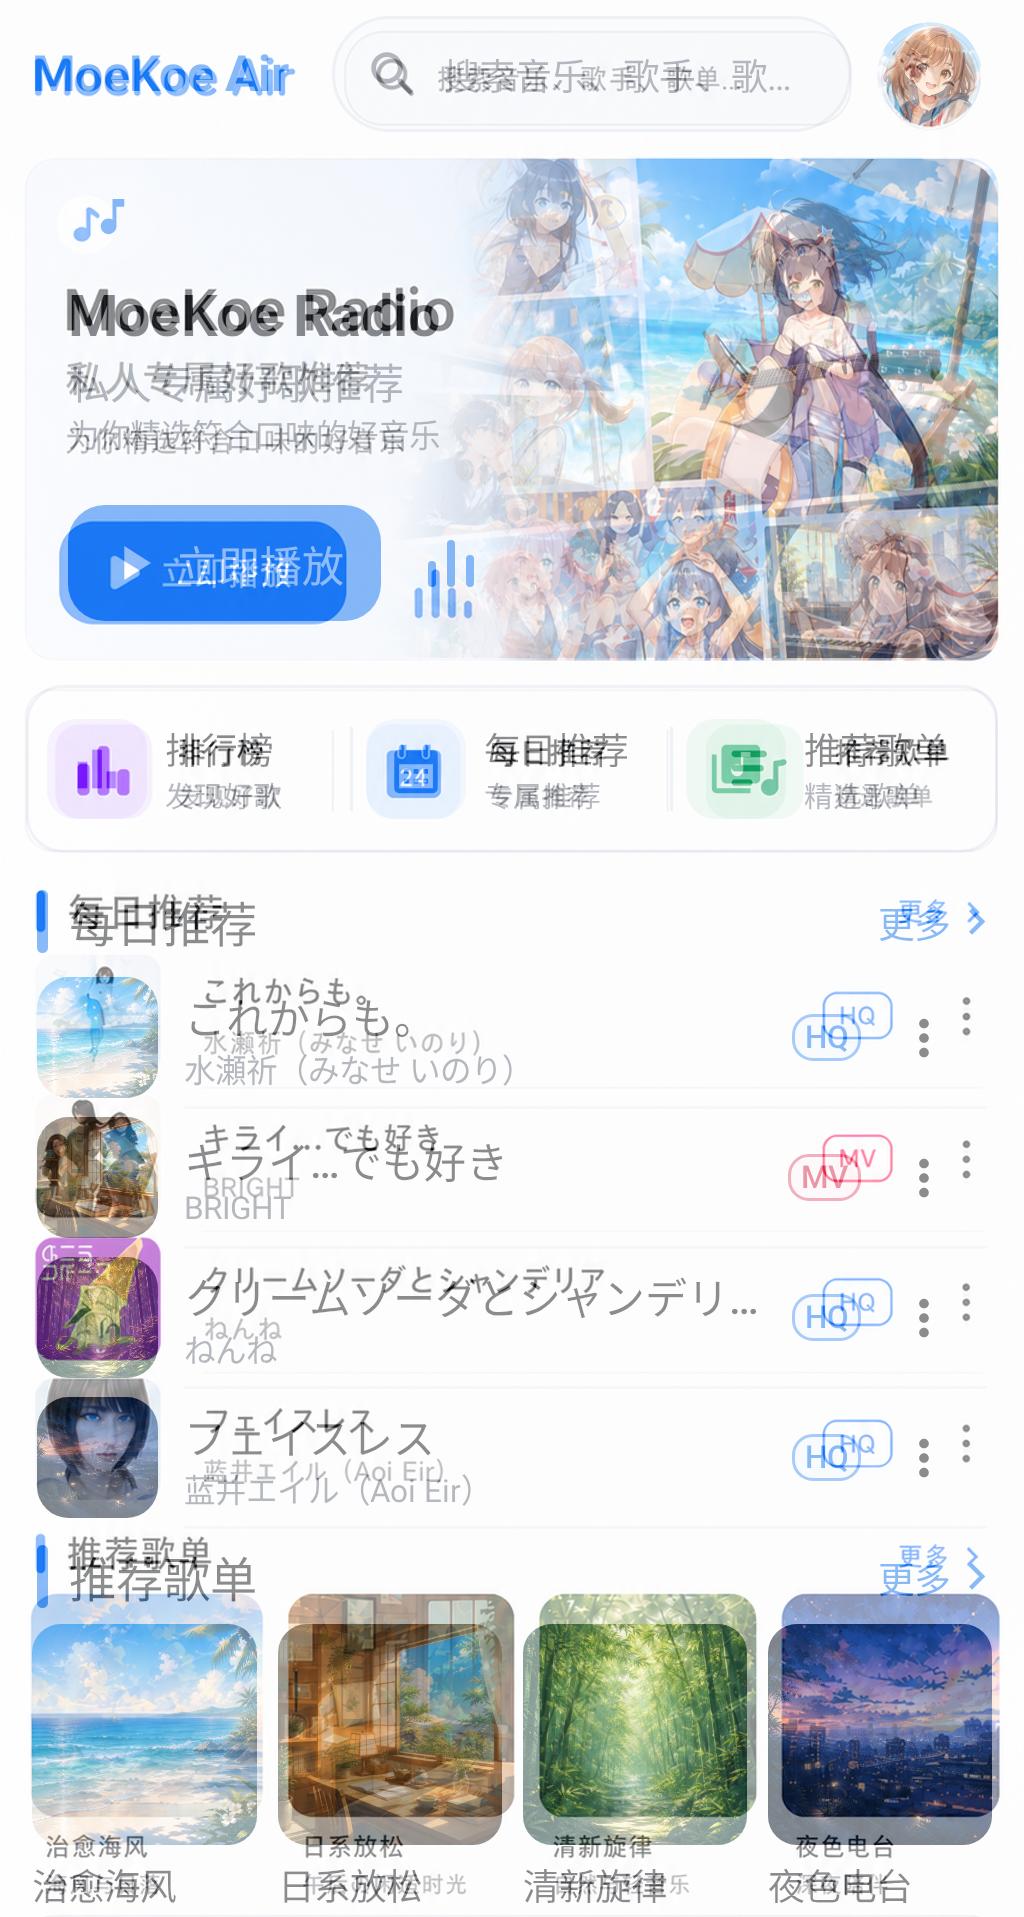
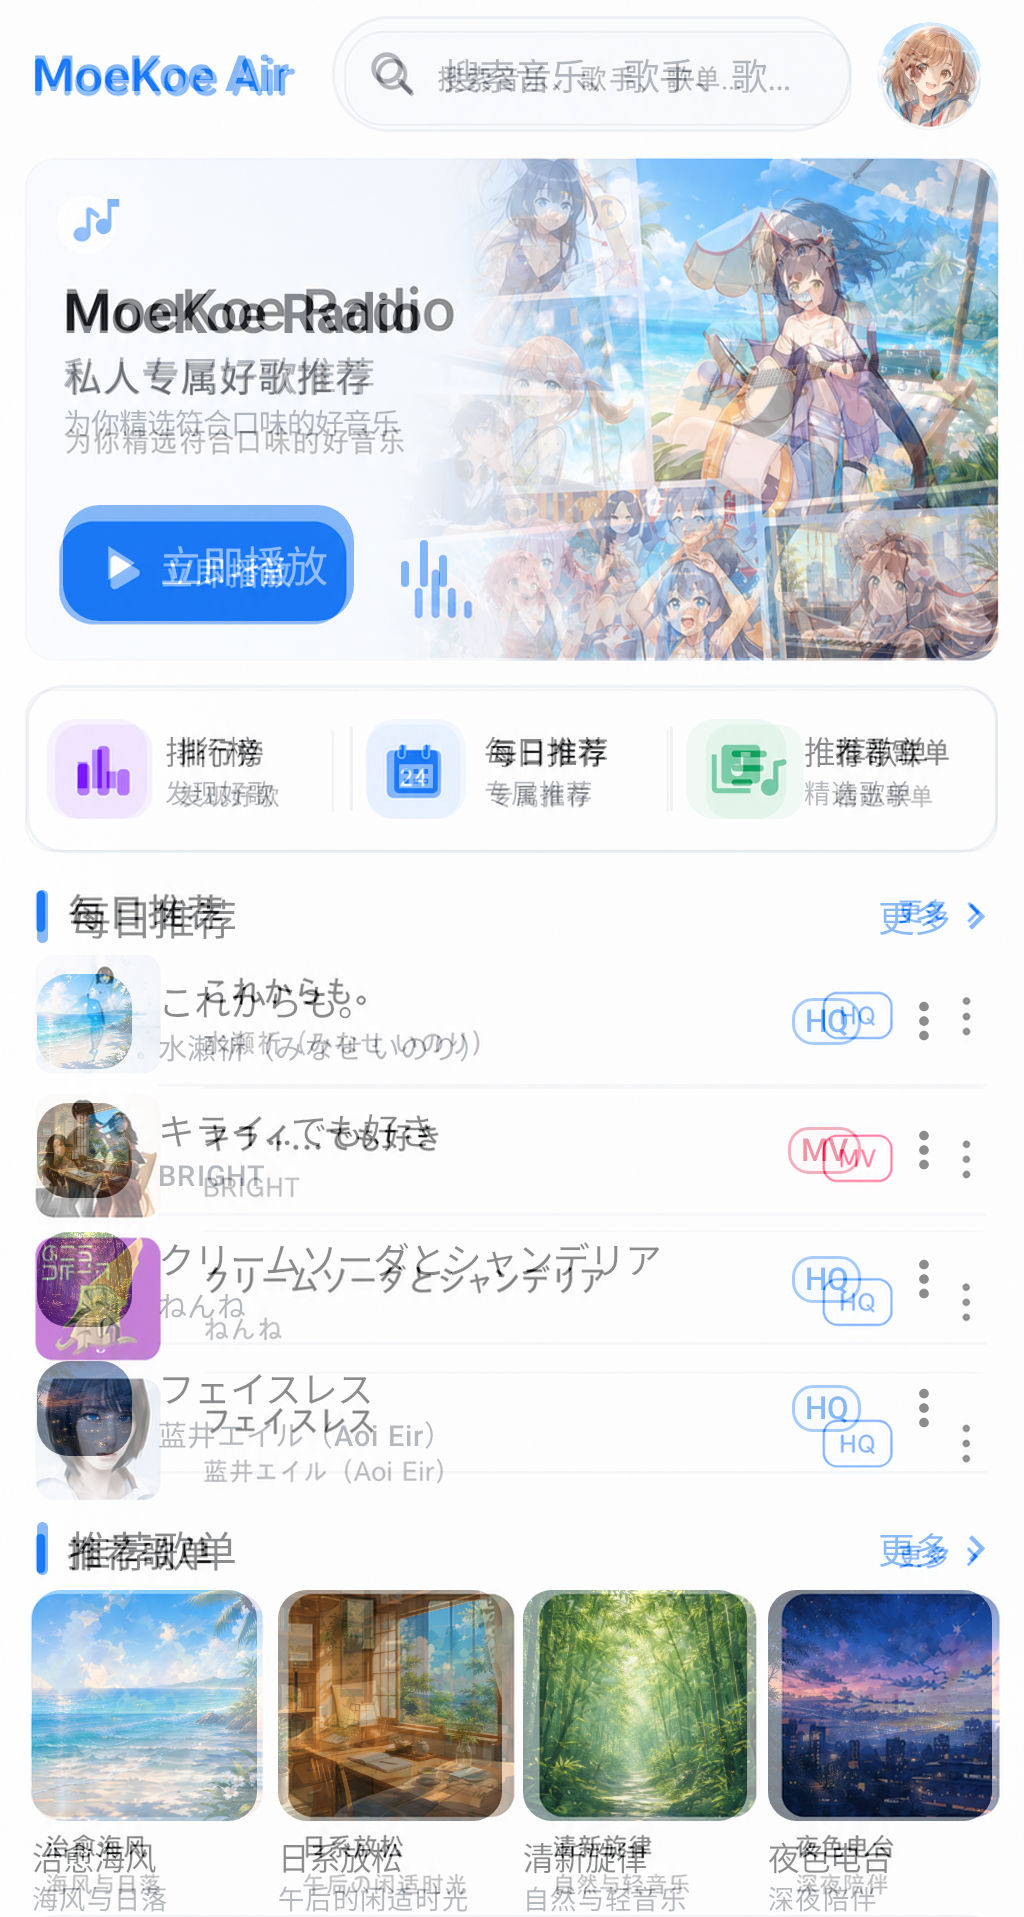
fix(home): match confirmed content density

diff --git a/feature/home/src/main/kotlin/cn/james/music/feature/home/HomeScreen.kt b/feature/home/src/main/kotlin/cn/james/music/feature/home/HomeScreen.kt
@@ -131,6 +131,7 @@ private fun HomeContent(
             }
         }
         if (content.playlists.isNotEmpty()) {
+            item { Spacer(Modifier.height(12.dp)) }
             item { HomeSectionHeader(stringResource(R.string.home_playlist_title)) }
             item { HomePlaylistGrid(content.playlists.take(4)) }
         }
@@ -264,7 +265,7 @@ private fun HomeRadioHero() {
                 ),
         )
         Column(
-            modifier = Modifier.fillMaxHeight().fillMaxWidth(copyWidth).padding(start = 16.dp, top = 5.dp, bottom = 14.dp),
+            modifier = Modifier.fillMaxHeight().fillMaxWidth(copyWidth).padding(start = 14.dp, top = 5.dp, bottom = 14.dp),
         ) {
             Surface(shape = CircleShape, color = MaterialTheme.colorScheme.surface.copy(alpha = 0.88f)) {
                 Icon(
@@ -277,7 +278,7 @@ private fun HomeRadioHero() {
             Text(
                 text = stringResource(R.string.home_radio_title),
                 modifier = Modifier.padding(top = 8.dp),
-                style = MaterialTheme.typography.titleLarge,
+                style = MaterialTheme.typography.titleLarge.copy(fontSize = 21.sp, lineHeight = 26.sp),
                 fontWeight = FontWeight.Bold,
                 color = textColor,
                 maxLines = if (largeText) 2 else 1,
@@ -285,7 +286,7 @@ private fun HomeRadioHero() {
             )
             Text(
                 text = stringResource(R.string.home_radio_subtitle),
-                style = MaterialTheme.typography.titleSmall,
+                style = MaterialTheme.typography.titleSmall.copy(fontSize = 15.sp, lineHeight = 20.sp),
                 fontWeight = FontWeight.Medium,
                 color = supportingColor,
                 maxLines = if (largeText) 2 else 1,
@@ -293,7 +294,7 @@ private fun HomeRadioHero() {
             )
             Text(
                 text = stringResource(R.string.home_radio_supporting),
-                style = MaterialTheme.typography.bodySmall,
+                style = MaterialTheme.typography.bodySmall.copy(fontSize = 11.sp, lineHeight = 16.sp),
                 color = supportingColor,
                 maxLines = if (largeText) 2 else 1,
                 overflow = TextOverflow.Ellipsis,
@@ -306,7 +307,7 @@ private fun HomeRadioHero() {
                     contentColor = MaterialTheme.colorScheme.onPrimary,
                 ) {
                     Row(
-                        modifier = Modifier.heightIn(min = 44.dp).padding(horizontal = 14.dp, vertical = 8.dp),
+                        modifier = Modifier.heightIn(min = 44.dp).padding(horizontal = 10.dp, vertical = 8.dp),
                         verticalAlignment = Alignment.CenterVertically,
                         horizontalArrangement = Arrangement.spacedBy(5.dp),
                     ) {
@@ -391,14 +392,14 @@ private fun QuickEntry(
             QuickEntryIcon(icon, iconColor, containerColor)
             Text(
                 title,
-                style = MaterialTheme.typography.labelLarge,
+                style = MaterialTheme.typography.labelMedium,
                 fontWeight = FontWeight.Medium,
                 textAlign = TextAlign.Center,
                 maxLines = 2,
             )
             Text(
                 supporting,
-                style = MaterialTheme.typography.labelSmall,
+                style = MaterialTheme.typography.labelSmall.copy(fontSize = 10.sp, lineHeight = 14.sp),
                 color = MaterialTheme.colorScheme.onSurfaceVariant,
                 textAlign = TextAlign.Center,
                 maxLines = 2,
@@ -408,10 +409,10 @@ private fun QuickEntry(
         Row(modifier = modifier, verticalAlignment = Alignment.CenterVertically) {
             QuickEntryIcon(icon, iconColor, containerColor)
             Column(Modifier.padding(start = 7.dp)) {
-                Text(title, style = MaterialTheme.typography.labelLarge, fontWeight = FontWeight.Medium, maxLines = 1)
+                Text(title, style = MaterialTheme.typography.labelMedium, fontWeight = FontWeight.Medium, maxLines = 1)
                 Text(
                     supporting,
-                    style = MaterialTheme.typography.labelSmall,
+                    style = MaterialTheme.typography.labelSmall.copy(fontSize = 10.sp, lineHeight = 14.sp),
                     color = MaterialTheme.colorScheme.onSurfaceVariant,
                     maxLines = 1,
                 )
@@ -440,18 +441,18 @@ private fun QuickDivider() {
 @Composable
 private fun HomeSectionHeader(title: String) {
     Row(
-        modifier = Modifier.fillMaxWidth().heightIn(min = 36.dp).padding(start = 14.dp, end = 8.dp, top = 4.dp, bottom = 4.dp),
+        modifier = Modifier.fillMaxWidth().heightIn(min = 32.dp).padding(start = 14.dp, end = 8.dp, top = 2.dp, bottom = 2.dp),
         verticalAlignment = Alignment.CenterVertically,
     ) {
         Box(
             Modifier
-                .size(width = 4.dp, height = 24.dp)
+                .size(width = 4.dp, height = 20.dp)
                 .background(MaterialTheme.colorScheme.primary, RoundedCornerShape(2.dp)),
         )
         Text(
             text = title,
             modifier = Modifier.weight(1f).padding(start = 8.dp),
-            style = MaterialTheme.typography.titleMedium,
+            style = MaterialTheme.typography.titleSmall.copy(fontSize = 16.sp, lineHeight = 20.sp),
             fontWeight = FontWeight.SemiBold,
             maxLines = 1,
         )
@@ -475,11 +476,11 @@ private fun HomeRecommendationRow(
             modifier =
                 Modifier
                     .fillMaxWidth()
-                    .heightIn(min = 52.dp)
+                    .heightIn(min = 48.dp)
                     .clickable { onPlay(song) },
             verticalAlignment = Alignment.CenterVertically,
         ) {
-            MoeArtwork(size = 46.dp) {
+            MoeArtwork(size = 36.dp) {
                 HomeArtwork(
                     title = song.title,
                     artworkUrl = song.artworkUrl,
@@ -492,14 +493,14 @@ private fun HomeRecommendationRow(
             ) {
                 Text(
                     text = song.title,
-                    style = MaterialTheme.typography.titleSmall,
+                    style = MaterialTheme.typography.labelLarge,
                     fontWeight = FontWeight.Medium,
                     maxLines = 1,
                     overflow = TextOverflow.Ellipsis,
                 )
                 Text(
                     text = song.artistName.ifBlank { stringResource(R.string.home_unknown_artist) },
-                    style = MaterialTheme.typography.bodySmall,
+                    style = MaterialTheme.typography.labelSmall,
                     color = MaterialTheme.colorScheme.onSurfaceVariant,
                     maxLines = 1,
                     overflow = TextOverflow.Ellipsis,
@@ -519,7 +520,7 @@ private fun HomeRecommendationRow(
             }
         }
         HorizontalDivider(
-            modifier = Modifier.padding(start = 56.dp),
+            modifier = Modifier.padding(start = 46.dp),
             color = MaterialTheme.colorScheme.outlineVariant.copy(alpha = 0.55f),
         )
     }
@@ -548,12 +549,12 @@ private fun HomePlaylistCard(
             title = playlist.title,
             artworkUrl = playlist.artworkUrl,
             previewArtworkRes = playlist.previewArtworkRes,
-            modifier = Modifier.fillMaxWidth().height(84.dp).clip(RoundedCornerShape(11.dp)),
+            modifier = Modifier.fillMaxWidth().height(88.dp).clip(RoundedCornerShape(11.dp)),
         )
         Text(
             playlist.title,
             modifier = Modifier.padding(top = 5.dp),
-            style = MaterialTheme.typography.labelLarge,
+            style = MaterialTheme.typography.labelMedium,
             fontWeight = FontWeight.Medium,
             maxLines = 1,
             overflow = TextOverflow.Ellipsis,
@@ -563,7 +564,7 @@ private fun HomePlaylistCard(
         subtitle?.let {
             Text(
                 it,
-                style = MaterialTheme.typography.labelSmall,
+                style = MaterialTheme.typography.labelSmall.copy(fontSize = 10.sp, lineHeight = 14.sp),
                 color = MaterialTheme.colorScheme.onSurfaceVariant,
                 maxLines = 1,
                 overflow = TextOverflow.Ellipsis,

diff --git a/docs/plans/04-content-and-player-ui.md b/docs/plans/04-content-and-player-ui.md
@@ -44,7 +44,7 @@
 - 首页缓存已将 Room 升至 v5，新增按 `home:v1:anonymous` / `home:v1:user:<userid>` 分区的可观察完整快照 DAO；`4→5`、完整 `1→5`、DAO 覆盖与既有数据库回归已在 ELE-AL00 / API 29 真机 13/13 通过。
 - 首页 Repository 已完成 Room stale-while-revalidate、15 分钟 TTL、匿名/用户分区自动切换与刷新、完整快照提交、部分失败保护、single-flight、强制刷新和会话双代际隔离；15 项 JVM 测试覆盖旧缓存首发、自动刷新问题、取消、缓存损坏和并发竞态。
 - Home ViewModel 已完成领域模型到 UI Model 的隔离、首次/缓存/刷新/部分/空/错误状态、弱提示消耗、显式刷新代际取消和身份分区切换；9 项 JVM 测试覆盖首次会话失败顺序及账号切换与手动刷新并发。
-- 首页 Compose 已按 [`HOME_LAYOUT_SPEC.md`](../design/HOME_LAYOUT_SPEC.md) 和 `01-home-material3-v2.png` 完整恢复横向顶部工具区、Radio Hero、三快捷入口、每日推荐四行与四列推荐歌单；真实推荐/歌单、搜索、下拉刷新、播放事件和缓存弱提示继续复用既有链路。Light、Dark、AMOLED、加载、空、错误、缓存刷新弱提示、`1.5×`、`2.0×` 共 9 组截图基线及归一化对照证据已建立；指定 ELE-AL00 / API 29 的 App instrumentation 回归 24/24 通过。设计示例徽标和副标题只进入截图 fixture，不扩充协议或伪造运行时能力。
+- 首页 Compose 已按 [`HOME_LAYOUT_SPEC.md`](../design/HOME_LAYOUT_SPEC.md) 和 `01-home-material3-v2.png` 完整恢复横向顶部工具区、Radio Hero、三快捷入口、每日推荐四行与四列推荐歌单；2026-08-08 的二次同画布复核进一步修正了旧证据未拦住的歌曲行、封面、字级与推荐歌单纵向漂移。真实推荐/歌单、搜索、下拉刷新、播放事件和缓存弱提示继续复用既有链路。Light、Dark、AMOLED、加载、空、错误、缓存刷新弱提示、`1.5×`、`2.0×` 共 9 组截图基线及归一化对照证据已建立；设计示例徽标和副标题只进入截图 fixture，不扩充协议或伪造运行时能力。
 - 发现页已按 [`DISCOVER_LAYOUT_SPEC.md`](../design/DISCOVER_LAYOUT_SPEC.md) 和 `02-discover-v2.png` 完整恢复五段 Tab、本周新声 Hero、三列热门榜单、分类胶囊与三列封面；当前内容是 UI 层设计预览，不声明榜单、详情或播放业务已接入。Light、Dark、AMOLED、加载、空、错误、`1.5×`、`2.0×` 共 8 组截图基线和归一化设计对照证据已建立，大字体排行榜按纵向行重排；指定 ELE-AL00 / API 29 的 App instrumentation 回归 24/24 通过。
 - 播放队列已按 [`PLAYER_QUEUE_LAYOUT_SPEC.md`](../design/PLAYER_QUEUE_LAYOUT_SPEC.md) 和 `08-player-queue.png` 完成纯 UI 复刻：系统 `ModalBottomSheet` 内恢复标题、真实数量、播放模式、清空、来源、当前项、六行密度和关闭提示；标准、空队列、`1.5×` 共 3 组截图及归一化对照证据通过。指定 ELE-AL00 / API 29 已从 MiniPlayer 与全屏播放器分别打开真实调试队列并验证系统返回；拖拽仅表达确认稿视觉，不伪装重排业务已完成。
 - 歌单详情已经完成 [`19-playlist-detail-ui`](../reference-audits/19-playlist-detail-ui.md) 门禁，并按 [`PLAYLIST_DETAIL_LAYOUT_SPEC.md`](../design/PLAYLIST_DETAIL_LAYOUT_SPEC.md) 与 `05-playlist-detail.png` 落入独立 `:feature:playlist`：从发现页使用类型安全子页面导航进入，恢复标准 Toolbar、资料 Hero、五项操作、紧凑歌曲列表与当前项 Surface；子页面隐藏一级底栏并保留应用级 MiniPlayer。Light、Dark、AMOLED、加载、空、错误、`1.5×`、`2.0×` 共 8 组截图基线及归一化设计对照证据已建立，指定 ELE-AL00 / API 29 已验证入口、返回与窄屏操作区无裁切。真实协议、收藏、下载、排序和播放行为继续拆分为后续纵向切片。

diff --git a/docs/design/evidence/home-content-2026-08-08.md b/docs/design/evidence/home-content-2026-08-08.md
@@ -15,10 +15,18 @@
 
 - 顶部品牌、搜索框和圆形头像保持同一行；搜索仍接入既有独立目的地。
 - Radio Hero、三入口连续 Surface、每日推荐四行和推荐歌单四列均已恢复，不再使用空白占位或简化 Banner 代替。
-- Hero、快捷入口、两个分组标题、歌曲行和歌单区的首屏顺序及纵向密度与确认稿一致；页面只有一个纵向滚动所有者，MiniPlayer 与底栏不进入页面列表。
+- 本轮重新复核纠正了旧证据未拦住的密度偏差：歌曲封面由过大的 `46dp` 收紧为 `36dp`，歌曲行、标题/艺人字级和分隔线起点同步校准，并恢复每日推荐与推荐歌单之间的分组留白；两个 Section Header 现在与确认稿落在同一纵向锚点。
+- Hero 文案与主按钮、快捷入口字级、四列歌单封面和两行文本已按同视口画布重新校准；页面仍只有一个纵向滚动所有者，MiniPlayer 与底栏不进入页面列表。
 - 歌曲与歌单的示例徽标、副标题和本地封面只存在于截图 fixture；运行时继续消费真实标题、艺人、网络封面和播放事件，没有扩充协议或伪造服务能力。
 - Dark、AMOLED、Loading、Empty、Failure、缓存刷新弱提示、`1.5×` 和 `2.0×` 已建立独立截图。`2.0×` 顶部重排、Hero/快捷入口增高并由外层滚动承载，关键文案与搜索入口不裁切。
-- 指定 ELE-AL00 / API 29 真机的 `:app:connectedDebugAndroidTest` 24/24 通过，覆盖首页搜索返回、三项一级导航、MiniPlayer 控件与切歌以及全量应用回归；没有创建或启动模拟器。
+- 本切片只修改 `HomeScreen` 的展示几何和截图基线，没有修改 ViewModel、Repository、Room、协议、导航或播放行为。
+
+## 验证
+
+- `spotlessCheck`。
+- `:feature:home:testDebugUnitTest`、`:feature:home:validateDebugScreenshotTest`、`:feature:home:lintDebug`。
+- `:app:assembleDebug`、`:app:compileDebugAndroidTestKotlin`。
+- Huawei ELE-AL00 / Android 10（API 29）运行 `:app:connectedDebugAndroidTest`，25/25 通过，覆盖首页搜索返回、三项一级导航、MiniPlayer 控制与应用级回归；没有创建或启动模拟器。
 
 没有剩余 P0 / P1 / P2。P3 为 Material 图标与生成稿定制图标的轻微笔画差异，以及项目原创插画与稿内示例人物不同；语义、槽位比例、裁切和配色一致。
 

diff --git a/docs/design/HOME_LAYOUT_SPEC.md b/docs/design/HOME_LAYOUT_SPEC.md
@@ -44,6 +44,8 @@ runtimeSize = designSize × s
 
 首页 Compose 只拥有 MiniPlayer 上方的内容区域。MiniPlayer 和 NavigationBar 固定在 `Scaffold.bottomBar`，不得进入首页滚动列表；首页截图基线与应用壳连续关系必须分别用 feature 截图和 app 集成截图证明。
 
+标准 `390dp`、`1.0×` 状态下，每日推荐使用 `48dp` 紧凑行与 `36dp` 封面；Section Header 视觉高度从 `32dp` 起，推荐区结束后保留 `12dp` 分组留白再进入推荐歌单；四列歌单封面高度为 `88dp`。这些尺寸只约束标准态视觉槽位，点击语义仍不得小于 `48dp`，大字体继续按内容自然增高。
+
 ## 滚动、Insets 与状态
 
 - 首页是单一纵向内容流，只允许最外层 `LazyColumn` 成为滚动所有者；Hero、快捷入口、歌曲区和歌单区不得嵌套纵向滚动。
